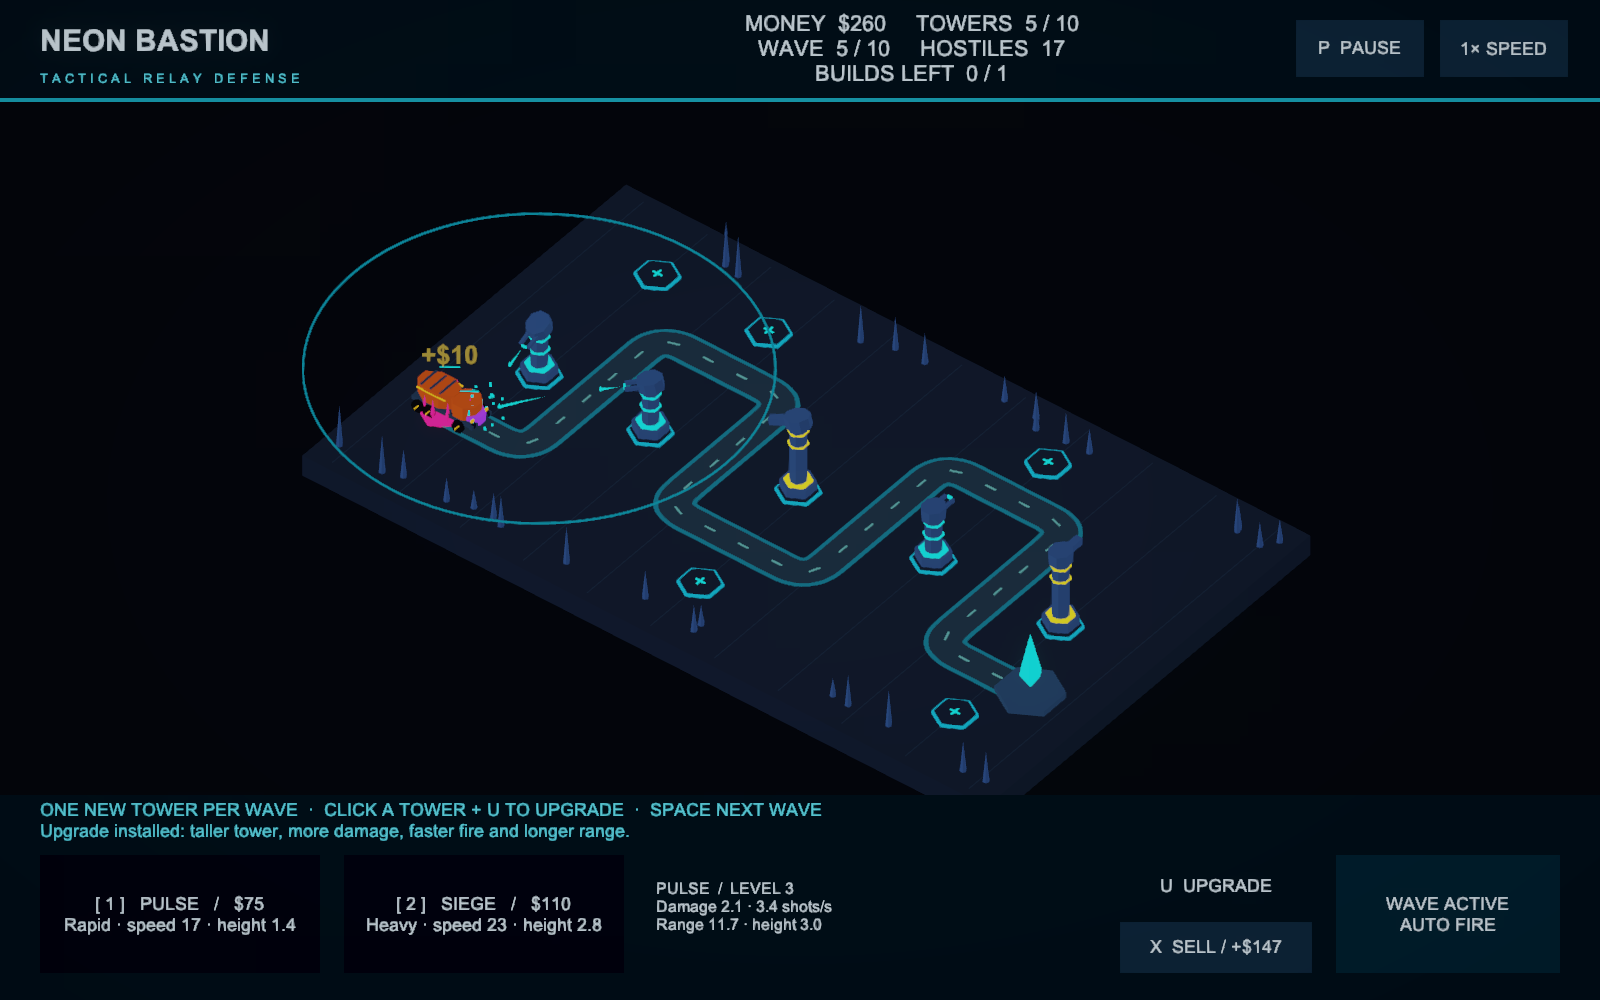
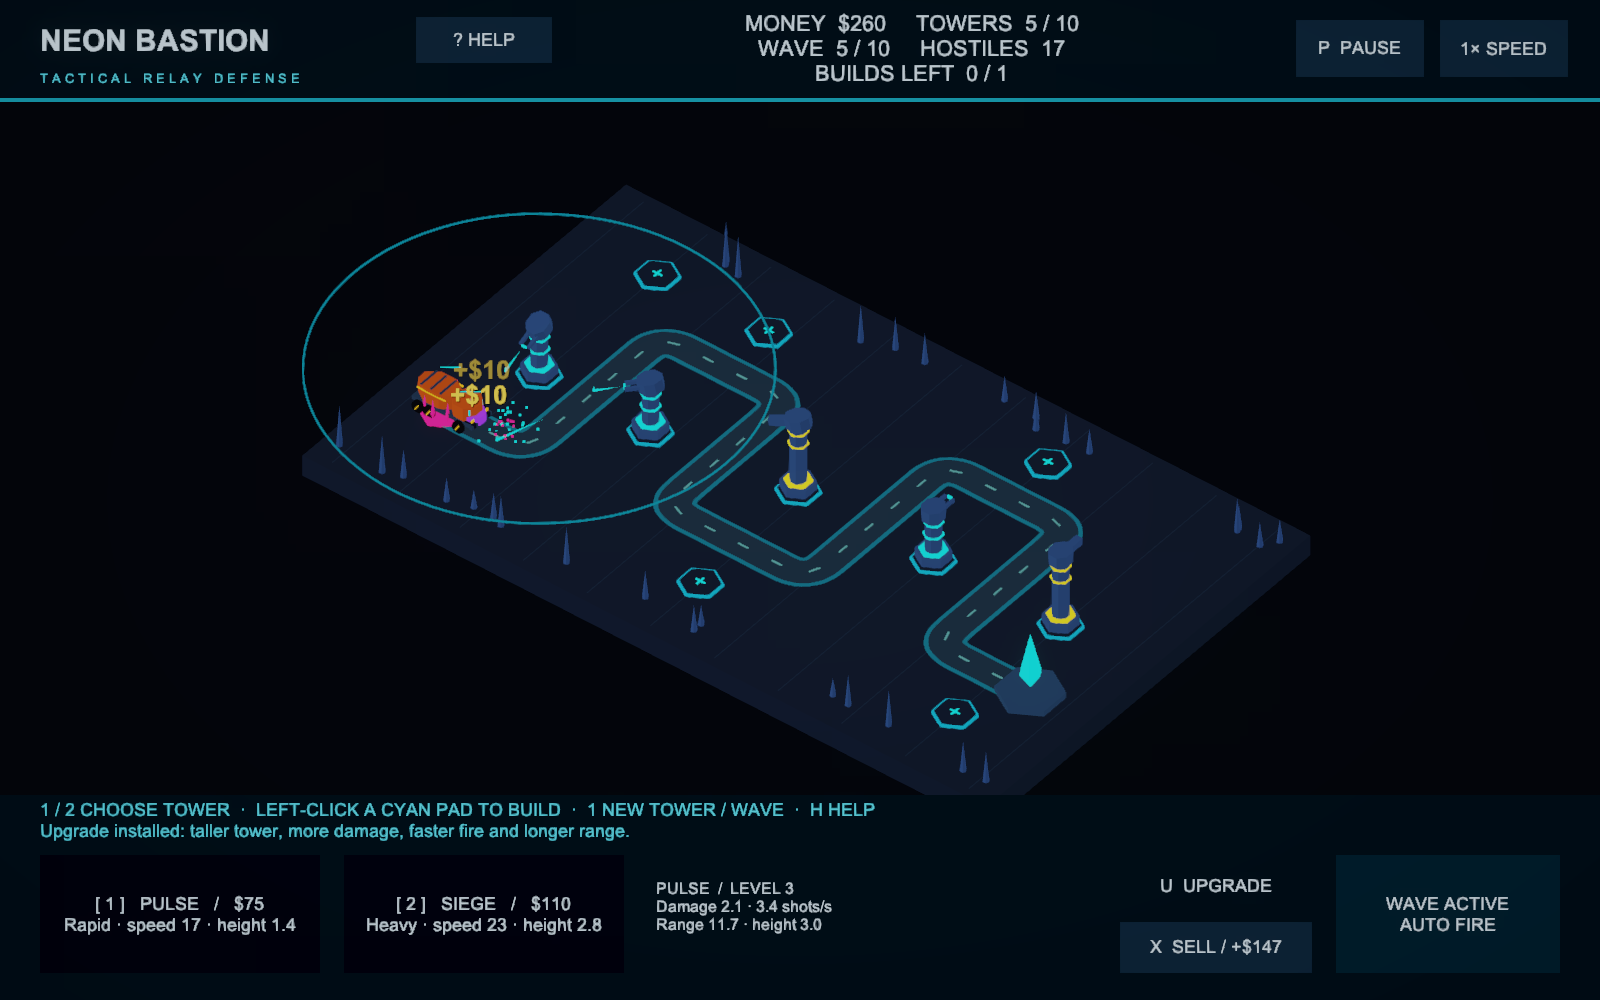
Add quick tutorial for tower placement, kill money and upgrades

Changed region(s): [[0.0312, 0.806, 0.5312, 0.837], [0.25, 0.341, 0.3438, 0.434], [0.25, 0.0, 0.3438, 0.062]]

diff --git a/Assets/Defense/DefenseHUD.cs b/Assets/Defense/DefenseHUD.cs
@@ -10,6 +10,20 @@ public class DefenseHUD : MonoBehaviour
     private GameObject menu;
     private Image pulseImage,siegeImage;
     private Button pulseButton,siegeButton;
+    private GameObject tutorial;
+    private Text tutorialProgress,tutorialHeading,tutorialBody,tutorialNextLabel,tutorialSkipLabel;
+    private Button tutorialBack;
+    private int tutorialPage;
+    private bool tutorialStartsGame,tutorialPausedByUs;
+    public bool TutorialOpen => tutorial!=null && tutorial.activeSelf;
+    public int TutorialPage => tutorialPage;
+    private static readonly string[] TutorialTitles={"CHOOSE YOUR TOWER","PLACE ON A CYAN PAD","KILLS EARN MONEY","UPGRADE YOUR DEFENSE"};
+    private static readonly string[] TutorialBodies={
+        "You start with $110.\n\nPULSE — $75: rapid fire, useful against Scouts and motorcycles.\nSIEGE — $110: heavier shots for armored enemies and trucks.\n\nClick a tower card at the bottom, or press 1 for Pulse / 2 for Siege.\nYou choose where to build; towers aim and fire automatically.",
+        "Move the pointer over a glowing CYAN HEXAGON on the board.\nLEFT-CLICK the pad to place your selected tower.\n\nYou may place ONE new tower per wave. Setup and combat share it.\nRoads, unmarked ground and occupied pads cannot take a new tower.\n\nPress SPACE or LAUNCH WAVE when your defense is ready.\nClearing the wave unlocks one placement for the next wave.",
+        "Every defeated enemy immediately adds cash to MONEY at the top.\nWatch for the gold +$ reward above the enemy.\n\nScout $10  /  Runner $15  /  Motorcycle $20\nArmored $25  /  Siege $100  /  Truck $120\n\nSave cash to buy your next wave's tower or improve an existing one.\nUnspent money carries over. There is no free wave-clear bonus.",
+        "LEFT-CLICK a placed tower to select it and see its range and stats.\nClick UPGRADE or press U when you can afford it.\n\nLevel 2 costs $45. Level 3 costs $90.\nEach upgrade adds damage, firing speed, range and 0.8 units of height.\n\nExample: a $75 Pulse leaves $35. One Scout kill adds $10 —\nyou now have the $45 needed for your first upgrade!"
+    };
     private readonly Color accent=new Color(.35f,.9f,1f);
     private readonly Color surface=new Color(.025f,.045f,.09f,.98f);
 
@@ -22,6 +36,7 @@ public class DefenseHUD : MonoBehaviour
         Panel("Top rail",transform,0,.90f,1,1,surface);
         Text brand=Label("Brand",transform,.025f,.935f,.36f,.985f,"NEON BASTION",27,TextAnchor.MiddleLeft);brand.fontStyle=FontStyle.Bold;
         Label("Tagline",transform,.025f,.905f,.4f,.94f,"T A C T I C A L   R E L A Y   D E F E N S E",11,TextAnchor.MiddleLeft).color=accent;
+        MakeButton("How to play",transform,.26f,.937f,.345f,.983f,"? HELP",()=>OpenTutorial(false));
         stats=Label("Mission stats",transform,.36f,.915f,.78f,.99f,"",21);
         pauseText=MakeButton("Pause",transform,.81f,.923f,.89f,.98f,"P  PAUSE",()=>game.TogglePause()).GetComponentInChildren<Text>();
         speedText=MakeButton("Speed",transform,.90f,.923f,.98f,.98f,"1× SPEED",()=>game.ToggleSpeed()).GetComponentInChildren<Text>();
@@ -42,10 +57,63 @@ public class DefenseHUD : MonoBehaviour
         title=Label("Title",menu.transform,.19f,.61f,.81f,.75f,"",57);title.fontStyle=FontStyle.Bold;
         subtitle=Label("Subtitle",menu.transform,.2f,.55f,.8f,.61f,"",20);subtitle.color=accent;
         description=Label("Instructions",menu.transform,.22f,.30f,.78f,.54f,"",20);
-        MakeButton("Start or retry",menu.transform,.34f,.205f,.66f,.285f,"ENTER SECTOR",()=>game.StartGame());
+        MakeButton("Start or retry",menu.transform,.34f,.205f,.66f,.285f,"ENTER SECTOR",()=>OpenTutorial(true));
+        BuildTutorial();
         Refresh();
     }
-    public void Message(string value) { tip.text="ONE NEW TOWER PER WAVE  ·  CLICK A TOWER + U TO UPGRADE  ·  SPACE NEXT WAVE\n"+value; }
+    public void Message(string value) { tip.text="1 / 2 CHOOSE TOWER  ·  LEFT-CLICK A CYAN PAD TO BUILD  ·  1 NEW TOWER / WAVE  ·  H HELP\n"+value; }
+    private void BuildTutorial()
+    {
+        tutorial=Panel("Quick tutorial",transform,0,0,1,1,new Color(.005f,.012f,.035f,.94f)).gameObject;
+        Panel("Tutorial card",tutorial.transform,.16f,.12f,.84f,.89f,surface);
+        Panel("Tutorial accent",tutorial.transform,.16f,.884f,.84f,.89f,accent);
+        tutorialProgress=Label("Tutorial progress",tutorial.transform,.20f,.79f,.80f,.85f,"",17);tutorialProgress.color=accent;
+        tutorialHeading=Label("Tutorial heading",tutorial.transform,.18f,.66f,.82f,.79f,"",43);tutorialHeading.fontStyle=FontStyle.Bold;
+        tutorialBody=Label("Tutorial instructions",tutorial.transform,.22f,.32f,.78f,.66f,"",22,TextAnchor.MiddleLeft);
+        Label("Tutorial shortcuts",tutorial.transform,.2f,.27f,.8f,.31f,"ENTER / SPACE: NEXT     ESC: SKIP OR CLOSE     H: REOPEN GUIDE",13).color=accent;
+        tutorialBack=MakeButton("Tutorial back",tutorial.transform,.20f,.17f,.34f,.25f,"BACK",PreviousTutorialPage);
+        tutorialSkipLabel=MakeButton("Tutorial skip",tutorial.transform,.36f,.17f,.58f,.25f,"SKIP & PLAY",CloseTutorial).GetComponentInChildren<Text>();
+        tutorialNextLabel=MakeButton("Tutorial next",tutorial.transform,.60f,.17f,.80f,.25f,"NEXT",NextTutorialPage).GetComponentInChildren<Text>();
+        tutorial.SetActive(false);
+    }
+    public void OpenTutorial(bool startNewGame)
+    {
+        if(TutorialOpen) return;
+        tutorialStartsGame=startNewGame;tutorialPage=0;
+        tutorialPausedByUs=game.CanBuild && !game.Paused;
+        if(tutorialPausedByUs) game.TogglePause();
+        tutorial.transform.SetAsLastSibling();tutorial.SetActive(true);RefreshTutorial();
+    }
+    public void NextTutorialPage()
+    {
+        if(!TutorialOpen) return;
+        if(tutorialPage==TutorialTitles.Length-1) { CloseTutorial();return; }
+        tutorialPage++;RefreshTutorial();
+    }
+    public void PreviousTutorialPage()
+    {
+        if(!TutorialOpen) return;
+        tutorialPage=Mathf.Max(0,tutorialPage-1);RefreshTutorial();
+    }
+    private void RefreshTutorial()
+    {
+        tutorialProgress.text="QUICK START  /  STEP "+(tutorialPage+1)+" OF "+TutorialTitles.Length;
+        tutorialHeading.text=TutorialTitles[tutorialPage];tutorialBody.text=TutorialBodies[tutorialPage];
+        tutorialBack.interactable=tutorialPage>0;
+        tutorialSkipLabel.text=tutorialStartsGame ? "SKIP & PLAY" : "CLOSE GUIDE";
+        tutorialNextLabel.text=tutorialPage==TutorialTitles.Length-1 ? (tutorialStartsGame ? "START DEFENDING" : "BACK TO GAME") : "NEXT  >";
+    }
+    public void CloseTutorial()
+    {
+        if(!TutorialOpen) return;
+        bool start=tutorialStartsGame;
+        tutorial.SetActive(false);
+        if(tutorialPausedByUs && game.Paused) game.TogglePause();
+        tutorialPausedByUs=false;
+        if(start) game.StartGame();
+        else if(game.CanBuild) Message(game.Paused ? "Still paused. Press P to resume when ready." : "Choose 1 / 2, click a cyan pad, then press SPACE. Click a tower and U to upgrade.");
+    }
+
     public void ShowReward(int amount,Vector3 worldPosition)
     {
         Vector3 screen=game.View.WorldToScreenPoint(worldPosition+Vector3.up*1.4f);

diff --git a/Assets/Defense/Editor/DefenseValidation.cs b/Assets/Defense/Editor/DefenseValidation.cs
@@ -68,6 +68,34 @@ public static class DefenseValidation
                     Vector3 hit=new Vector3(0,3,0)+launch*time+.5f*Physics.gravity*time*time;
                     Check(solved && Vector3.Distance(hit,new Vector3(10,.7f,4)+new Vector3(0,0,3)*time)<.002f && Mathf.Abs(launch.magnitude-17)<.01f,"Predictive ballistic solution intersects a moving target at the launch speed");
                     Check(!InterceptSolver.TrySolve(Vector3.zero,new Vector3(100,0,0),new Vector3(30,0,0),5,Physics.gravity,out _,out _),"Unreachable targets return no launch solution");
+                    game.HUD.transform.Find("Menu shade/Start or retry").GetComponent<Button>().onClick.Invoke();
+                    Check(game.HUD.TutorialOpen && game.State==DefenseState.Title && game.HUD.TutorialPage==0,
+                        "Start button opens the quick tutorial before any gameplay begins");
+                    Transform guide=game.HUD.transform.Find("Quick tutorial");
+                    Button next=guide.Find("Tutorial next").GetComponent<Button>();
+                    Button back=guide.Find("Tutorial back").GetComponent<Button>();
+                    Text guideText=guide.Find("Tutorial instructions").GetComponent<Text>();
+                    next.onClick.Invoke();
+                    Check(game.HUD.TutorialPage==1 && guideText.text.Contains("LEFT-CLICK") && guideText.text.Contains("CYAN HEXAGON"),
+                        "Tutorial explicitly explains selecting and left-clicking a cyan pad to place a tower");
+                    back.onClick.Invoke();Check(game.HUD.TutorialPage==0,"Tutorial Back returns to the previous explanation");
+                    next.onClick.Invoke();next.onClick.Invoke();
+                    Check(game.HUD.TutorialPage==2 && guideText.text.Contains("$10") && guideText.text.Contains("MONEY"),
+                        "Tutorial explains kill rewards and the money display");
+                    next.onClick.Invoke();
+                    Check(game.HUD.TutorialPage==3 && guideText.text.Contains("$45") && guideText.text.Contains("$90") && guideText.text.Contains("0.8"),
+                        "Tutorial explains upgrade prices and stronger, taller towers");
+                    if(Array.IndexOf(Environment.GetCommandLineArgs(),"-captureDefense")>=0) CaptureTo("TUTORIAL_PREVIEW.png");
+                    next.onClick.Invoke();
+                    Check(!game.HUD.TutorialOpen && game.State==DefenseState.Building && game.Credits==110 && game.PlacementsRemaining==1,
+                        "Completing the tutorial starts a clean game without spending cash or the build allowance");
+                    Text instructions=game.HUD.transform.Find("Placement instructions").GetComponent<Text>();
+                    Check(instructions.text.Contains("1 / 2 CHOOSE") && instructions.text.Contains("LEFT-CLICK A CYAN PAD"),
+                        "Persistent gameplay overlay continues to explain tower selection and placement");
+                    game.HUD.transform.Find("How to play").GetComponent<Button>().onClick.Invoke();
+                    guide.Find("Tutorial skip").GetComponent<Button>().onClick.Invoke();
+                    Check(!game.HUD.TutorialOpen && game.State==DefenseState.Building && !game.Paused,
+                        "Help button reopens the guide and Close returns to the same game");
                     game.StartGame();
                     Check(game.Credits==110 && game.PlacementsRemaining==1 && game.Towers.Count==0,"New game starts with $110 and one wave-1 placement");
                     Check(!game.TryPlaceAt(new Vector3(-13,0,0)) && game.Credits==110 && game.PlacementsRemaining==1,"Invalid placement spends neither money nor allowance");
@@ -146,11 +174,20 @@ public static class DefenseValidation
                     int count=testTower.ShotsFired-shotsAtStart;
                     Check(count>=4 && count<=6,"Tower continuously fires at its configured cadence");
                     Check(testEnemy.Health<testEnemy.MaxHealth,"Predictive tower shots hit a moving enemy");
-                    testEnemy=game.SpawnEnemy(EnemyKind.Runner);testEnemy.SetDistance(16);game.TogglePause();pausedPosition=testEnemy.Body.position;
-                    Check(Time.timeScale==0 && !game.IsCombat,"Pause stops combat time");due=now+.25;stage++;break;
+                    testEnemy=game.SpawnEnemy(EnemyKind.Runner);testEnemy.SetDistance(16);game.HUD.OpenTutorial(false);pausedPosition=testEnemy.Body.position;
+                    Check(Time.timeScale==0 && !game.IsCombat,"Opening the tutorial during combat pauses simulation");due=now+.25;stage++;break;
                 case 4:
                     Check(Vector3.Distance(testEnemy.Body.position,pausedPosition)<.001f,"Enemies remain still while paused");
-                    game.TogglePause();game.ToggleSpeed();Check(Time.timeScale==2,"Speed control still enables 2x");game.ToggleSpeed();
+                    int moneyBefore=game.Credits;int waveBefore=game.Wave;
+                    game.HUD.CloseTutorial();
+                    Check(!game.Paused && Time.timeScale==1 && game.Credits==moneyBefore && game.Wave==waveBefore,
+                        "Closing combat help resumes without resetting money or the wave");
+                    game.TogglePause();game.HUD.OpenTutorial(false);game.HUD.CloseTutorial();
+                    Check(game.Paused && Time.timeScale==0,"Closing help preserves an already-paused game");
+                    game.TogglePause();game.ToggleSpeed();Check(Time.timeScale==2,"Speed control still enables 2x");
+                    game.HUD.OpenTutorial(false);game.HUD.CloseTutorial();
+                    Check(!game.Paused && game.Fast && Time.timeScale==2,"Closing help restores the player's prior 2x speed");
+                    game.ToggleSpeed();
                     testEnemy.SetDistance(game.Route.Length-.01f);simulatedDue=Time.time+.1f;due=now+.1;stage++;break;
                 case 5:
                     Check(game.State==DefenseState.Lost,"Any enemy completing the path immediately ends the game");
@@ -232,7 +269,7 @@ public static class DefenseValidation
     }
     [MenuItem("Tools/Neon Bastion/Capture preview during play")]
     public static void Capture() { CaptureTo("NEON_BASTION_PREVIEW.png"); }
-    private static void CaptureTo(string filename)
+    internal static void CaptureTo(string filename)
     {
         if(game==null) game=UnityEngine.Object.FindAnyObjectByType<DefenseGame>();
         if(game==null || game.View==null) return;

diff --git a/Assets/Defense/DefenseGame.cs b/Assets/Defense/DefenseGame.cs
@@ -203,9 +203,20 @@ public class DefenseGame : MonoBehaviour
     {
         if(View==null) return;
         FitCamera();Keyboard keys=Keyboard.current;
+        if(HUD.TutorialOpen)
+        {
+            if(keys!=null)
+            {
+                if(keys.escapeKey.wasPressedThisFrame) HUD.CloseTutorial();
+                else if(keys.enterKey.wasPressedThisFrame || keys.spaceKey.wasPressedThisFrame) HUD.NextTutorialPage();
+                else if(keys.leftArrowKey.wasPressedThisFrame) HUD.PreviousTutorialPage();
+            }
+            return;
+        }
+        if(keys!=null && keys.hKey.wasPressedThisFrame) { HUD.OpenTutorial(false);return; }
         if(keys!=null)
         {
-            if((State==DefenseState.Title || State==DefenseState.Lost || State==DefenseState.Won) && keys.enterKey.wasPressedThisFrame) StartGame();
+            if((State==DefenseState.Title || State==DefenseState.Lost || State==DefenseState.Won) && keys.enterKey.wasPressedThisFrame) HUD.OpenTutorial(true);
             else if(CanBuild)
             {
                 if(keys.pKey.wasPressedThisFrame) TogglePause();

diff --git a/README.md b/README.md
@@ -11,7 +11,7 @@ A complete tower-defense game built from the Tower-Projectiles starter assignmen
 1. In Unity Hub, choose **Add → Add project from disk** and select this folder.
 2. Open it with **Unity 6000.6.0f1**, the editor already installed on this Mac.
 3. Double-click **Assets/Scenes/NeonBastion.unity** in the Project panel.
-4. Press **Play**, then click **ENTER SECTOR** or press Enter.
+4. Press **Play**, then click **ENTER SECTOR** or press Enter. Follow the four-step quick tutorial, or choose **SKIP & PLAY**.
 
 The downloaded starter used Unity 6000.3.23f1. This separate copy was opened with 6000.6.0f1. The original starter is preserved in Downloads. `SampleScene.unity` and its scripts are retained for reference; use `NeonBastion.unity` for the assignment.
 
@@ -27,6 +27,8 @@ The board, camera and interface appear when Play starts. Custom drone hulls, tur
 | Launch next wave | Button or **Space** |
 | Upgrade selected tower | Button or **U** |
 | Sell selected tower | Button or **X** |
+| Reopen quick tutorial | **? HELP** button or **H** |
+| Tutorial navigation | **Next / Back**, Enter / Space, or Left Arrow; Escape skips/closes |
 | Pause / resume | Button or **P** |
 | Toggle 1× / 2× speed | Speed button |
 | Start / replay | Button or **Enter** |
@@ -34,6 +36,14 @@ The board, camera and interface appear when Play starts. Custom drone hulls, tur
 Towers choose targets, predict movement, and fire automatically. You can build and upgrade during a wave. Build only on marked pads, with **ONE new tower per wave and ten towers maximum**. Setup and combat share that allowance; selling does not restore it, and unused allowances do not accumulate. You start with **$110**. Money comes from monster kills, with no wave-clear bonus.
 
 Begin with one Pulse tower on the left interior pad. The first kill gives you enough money for its level-2 upgrade. Save for a Siege tower near the center in wave 2. Each later wave unlocks one more placement, which can be used during setup or combat. Cover several road sections with each tower and balance purchases against upgrades.
+
+## Quick tutorial and placement overlay
+
+The guide explains four steps: choose a Pulse or Siege tower, left-click a cyan hex pad, earn cash from defeated enemies, then select a tower and purchase upgrades. It lists the tower prices and enemy payouts and gives a concrete example: a $75 Pulse leaves $35; one $10 Scout kill funds the $45 level-2 upgrade. It also explains the one-new-tower-per-wave rule and the extra damage, firing speed, range and 0.8-unit height increase from upgrades.
+
+The guide opens from the title screen and can be reopened with **H** or **? HELP**. Opening it during play pauses the battle. Closing it restores the prior pause state and 1x/2x speed without resetting cash, towers or waves. A persistent textual overlay says **1 / 2 CHOOSE TOWER · LEFT-CLICK A CYAN PAD TO BUILD**, so placement instructions remain available after the guide closes.
+
+![Quick tutorial: upgrades and money example](TUTORIAL_PREVIEW.png)
 
 ## Towers
 

diff --git a/ASSIGNMENT_NOTES.md b/ASSIGNMENT_NOTES.md
@@ -15,7 +15,7 @@
 | Requirement | Where it is implemented |
 | --- | --- |
 | Two tower types with different fire rates, projectile speeds and heights | Pulse and Siege properties in `DefenseTower`; all three required stats differ. Both use real gravity-affected projectiles. |
-| Clear placement instructions | Title screen plus persistent command deck: choose 1/2 or a tower button, then click a glowing cyan hex pad. HUD displays costs and the placement limit. |
+| Clear placement instructions | Four-step quick-start tutorial plus a persistent command deck: choose 1/2 or a tower button, then LEFT-CLICK a CYAN HEXAGON. The tutorial explains placement, cash rewards, and upgrade prices/benefits with a worked money example. H or ? HELP reopens it; the HUD always retains the selection-and-placement instructions. |
 | Limited tower placement | One new placement per wave (shared by setup and combat), ten-tower cap, $110 starting cash, placement prices, and occupied-pad checks in `DefenseGame.TryPlaceAt`. Selling never restores a used wave allowance. |
 | Paths are not straight | The route turns repeatedly and has sampled quadratic curves at its corners. `DefenseRoute.Position` uses cumulative distance to preserve movement speed around bends. |
 
@@ -74,3 +74,7 @@ The original demo bounced random buggies around an arena and fired at clicked po
 `DefenseGame.WavePlan` specifies ten waves, growing from 12 to 56 enemies. Six enemy kinds are mixed deterministically so repeated attempts are comparable. Motorcycles arrive in wave 4; 160-base-HP trucks arrive in wave 5 and become more frequent in later waves. Wave 5 is now the midpoint, and victory requires clearing wave 10. The same one-placement allowance applies throughout, with ten distinct pads available.
 
 Vehicle graphics are authored by `DefenseArt.Vehicle`. A baked 20-sided wheel mesh, rider geometry, truck cab and cargo assembly, and different lighting distinguish the two new vehicles. `DefenseVehicleWheels` animates the wheels at a rate derived from speed and radius and respects pause. Both vehicles use explicit BoxCollider dimensions to fit their bodies, while retaining kinematic path-following and real projectile collisions.
+
+## Quick tutorial
+
+`DefenseHUD` owns four tutorial pages, Back/Next/Skip controls and a permanent Help button. The title screen start action opens the guide, and completing or skipping it starts a clean build phase. `DefenseGame.Update` routes tutorial keys before ordinary game controls, preventing Space from both advancing a page and launching a wave. Help pauses combat and remembers whether it introduced the pause, preserving an already-paused game and the player's speed choice on exit. The persistent placement line remains visible after the tutorial closes.

diff --git a/VALIDATION.md b/VALIDATION.md
@@ -1,12 +1,15 @@
 # Validation
 
-The game was compiled and run with Unity **6000.6.0f1** on macOS. The actual-scene validator passed **54 checks**, including a complete ten-wave win with all **338** enemies destroyed.
+The game was compiled and run with Unity **6000.6.0f1** on macOS. The actual-scene validator passed **65 checks**, including a complete ten-wave win with all **338** enemies destroyed.
 
 The campaign strategy begins with the normal $110, places towers on legal pads, buys additional towers and upgrades only when rewards make them affordable, and places exactly one tower per wave and obeys the ten-tower cap. It does not add credits, change enemy HP or speed, skip enemies, or apply test damage during the campaign. It accelerates the campaign with Unity time scaling; projectiles and enemies still use the normal fixed physics timestep. The focused tests run separately and intentionally create isolated test situations.
 
 ## What is checked
 
 - Title state and a clean initial build phase.
+- Actual tutorial button callbacks: opening, Back/Next, explicit placement text, money/upgrade explanations, finishing without spending cash or a build allowance, and reopening through Help.
+- Tutorial pause during combat, preserving cash and wave state on return, preserving an existing manual pause, and restoring the prior 2x speed.
+- Persistent selection-and-placement text after the tutorial closes.
 - Custom mesh assets present on disk and a curved, predetermined route.
 - Mathematical interception of a moving target at the configured launch speed, and rejection of an unreachable target.
 - Valid pad placement, rejection of road placement, occupied-pad protection, and the one-per-wave limit during both setup and combat.
